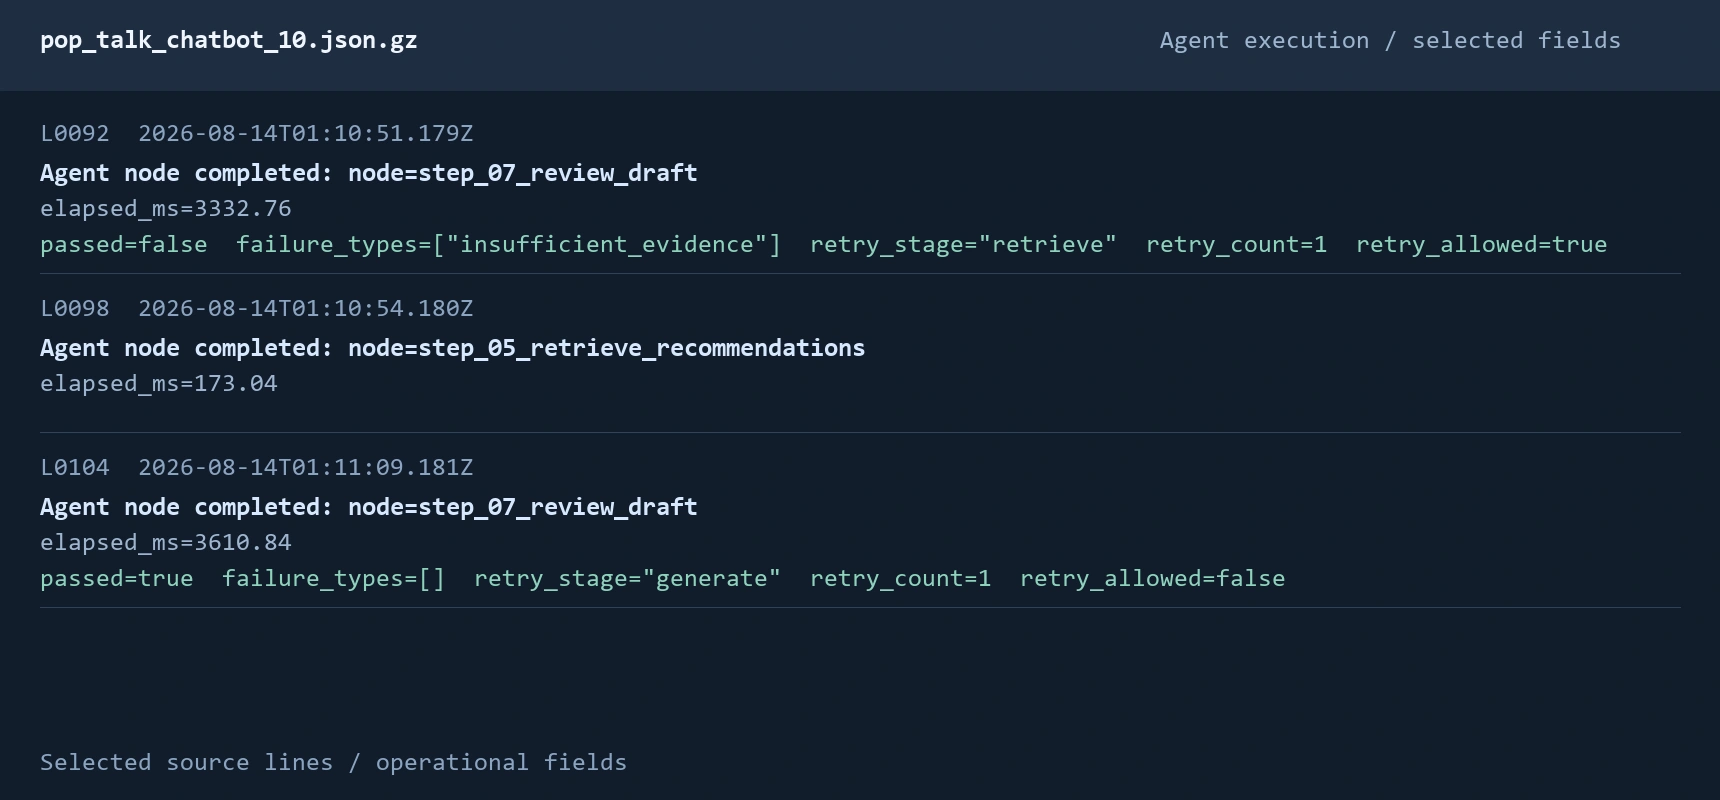
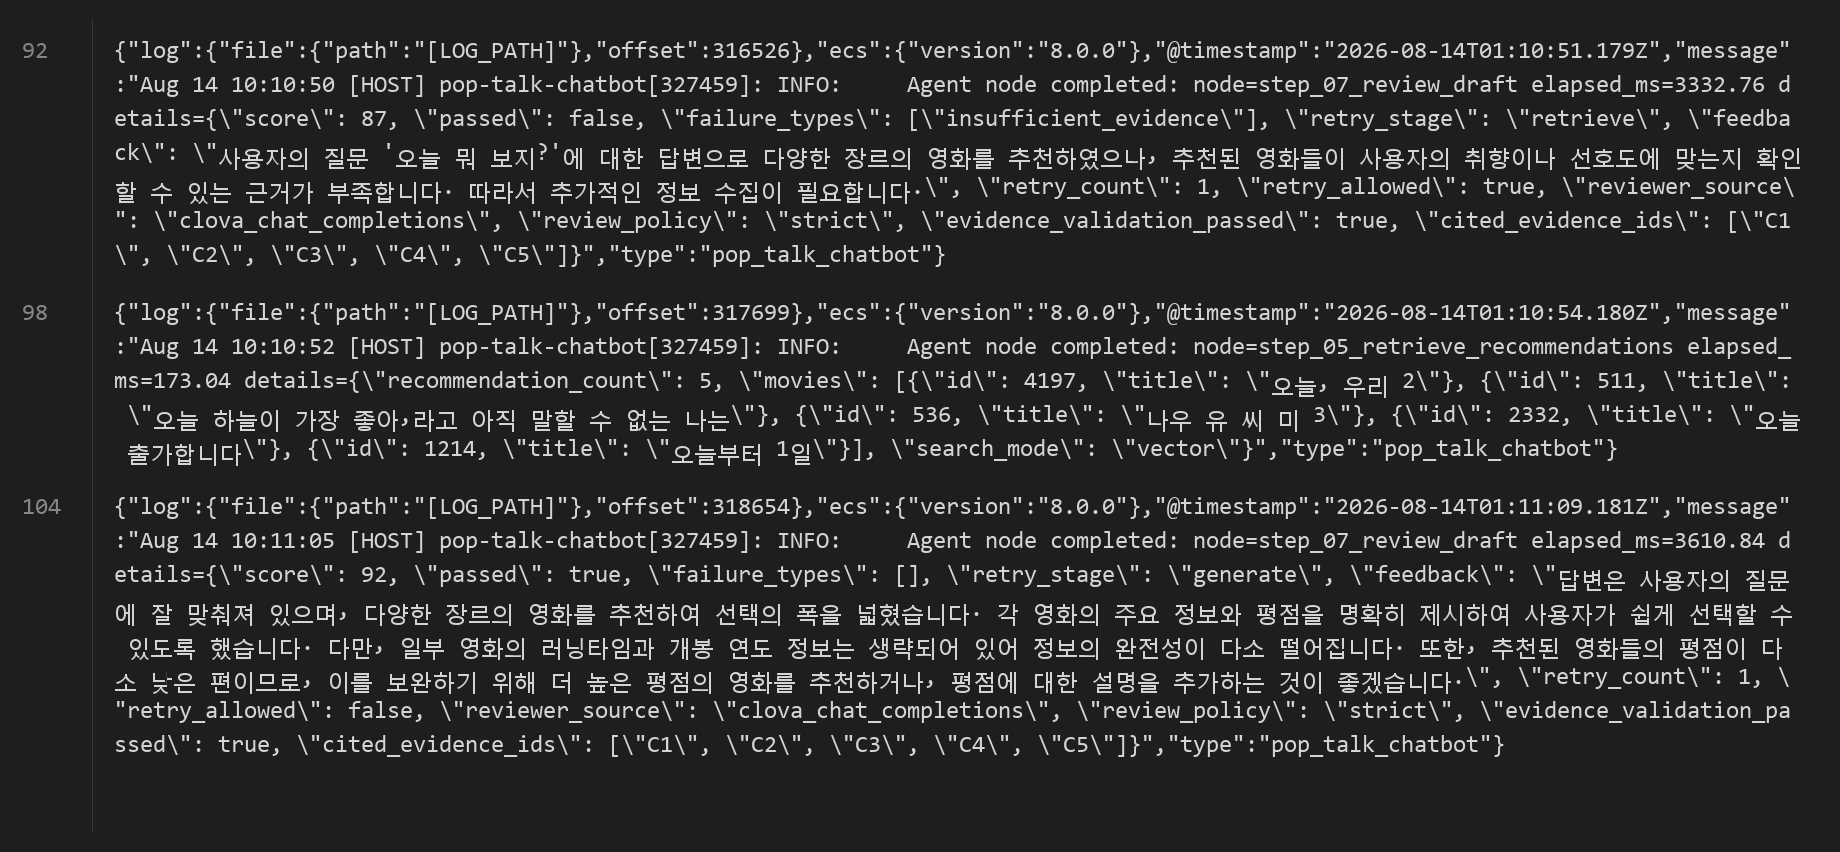
Show original JSONL excerpts in Pop Talk portfolio

Changed region(s): [[0.0, 0.0, 1.0, 0.9062], [0.0308, 0.9375, 0.3698, 0.9688], [0.0, 0.3438, 0.0308, 0.375]]

diff --git a/app/projects/pop-talk/page.tsx b/app/projects/pop-talk/page.tsx
@@ -75,9 +75,11 @@ export default function PopTalkPage() {
           <div className={styles.sectionLabel}><span>LOG</span><h2>데이터 로그</h2></div>
           <p>검수 결과에 따른 재검색과 재시도 종료 흐름.</p>
           <div className={detail.evidence}><ProductView item={popTalk.logExamples[0]} /></div>
+          <a className={detail.rawLog} href={popTalk.logExamples[0].rawFile} target="_blank" rel="noreferrer">로그 원문 보기 ↗</a>
           <details className={detail.disclosure}>
             <summary>재시도 제한과 안전 응답 로그 보기</summary>
             <ProductView item={popTalk.logExamples[1]} />
+            <a className={detail.rawLog} href={popTalk.logExamples[1].rawFile} target="_blank" rel="noreferrer">로그 원문 보기 ↗</a>
           </details>
         </section>
         <section id="architecture" className={styles.caseSection}>

diff --git a/app/projects/pop-talk/pop-talk.module.css b/app/projects/pop-talk/pop-talk.module.css
@@ -7,6 +7,7 @@
 .gallery { display: grid; grid-template-columns: repeat(2, minmax(0, 1fr)); gap: 20px; margin-top: 24px; }
 .product { margin: 0; min-width: 0; }
 .evidence { margin-top: 24px; }
+.rawLog { display: inline-block; margin-top: 12px; font-size: 12px; color: #38648a; text-decoration: underline; text-underline-offset: 3px; }
 .database { margin-top: 36px; scroll-margin-top: 84px; }
 .database > h3 { margin: 0 0 14px; font-size: 19px; font-weight: 650; }
 .product a { display: block; border: 1px solid #d0d8df; background: white; }

diff --git a/lib/content.ts b/lib/content.ts
@@ -106,6 +106,7 @@ export type PopTalk = {
   roadmap: Array<{ title: string; description: string }>;
   sourcesNote: string;
   logExamples: Array<{
+    rawFile: string;
     title: string;
     description: string;
     image: string;

diff --git a/docs/pop-talk-database-evidence.md b/docs/pop-talk-database-evidence.md
@@ -55,3 +55,8 @@
 - 의도 불일치 재시도 및 안전 종료: 원본 141, 153, 159, 161행.
 
 중복된 실행 사례 설명을 제거하고 ‘데이터 로그’ 항목에 통합했다.
+
+
+## 원문 형식으로 교체
+
+추가 요청에 따라 동일한 7개 원본 JSONL 행의 발췌 이미지로 교체했다. JSON 재직렬화 없이 필드 순서와 피드백을 포함한 원문을 유지하고 서버명·로그 경로만 마스킹했다. 화면의 자동 줄바꿈 외에 문장을 재배열하지 않았다. 대응하는 JSONL 발췌 파일도 연결했다.
